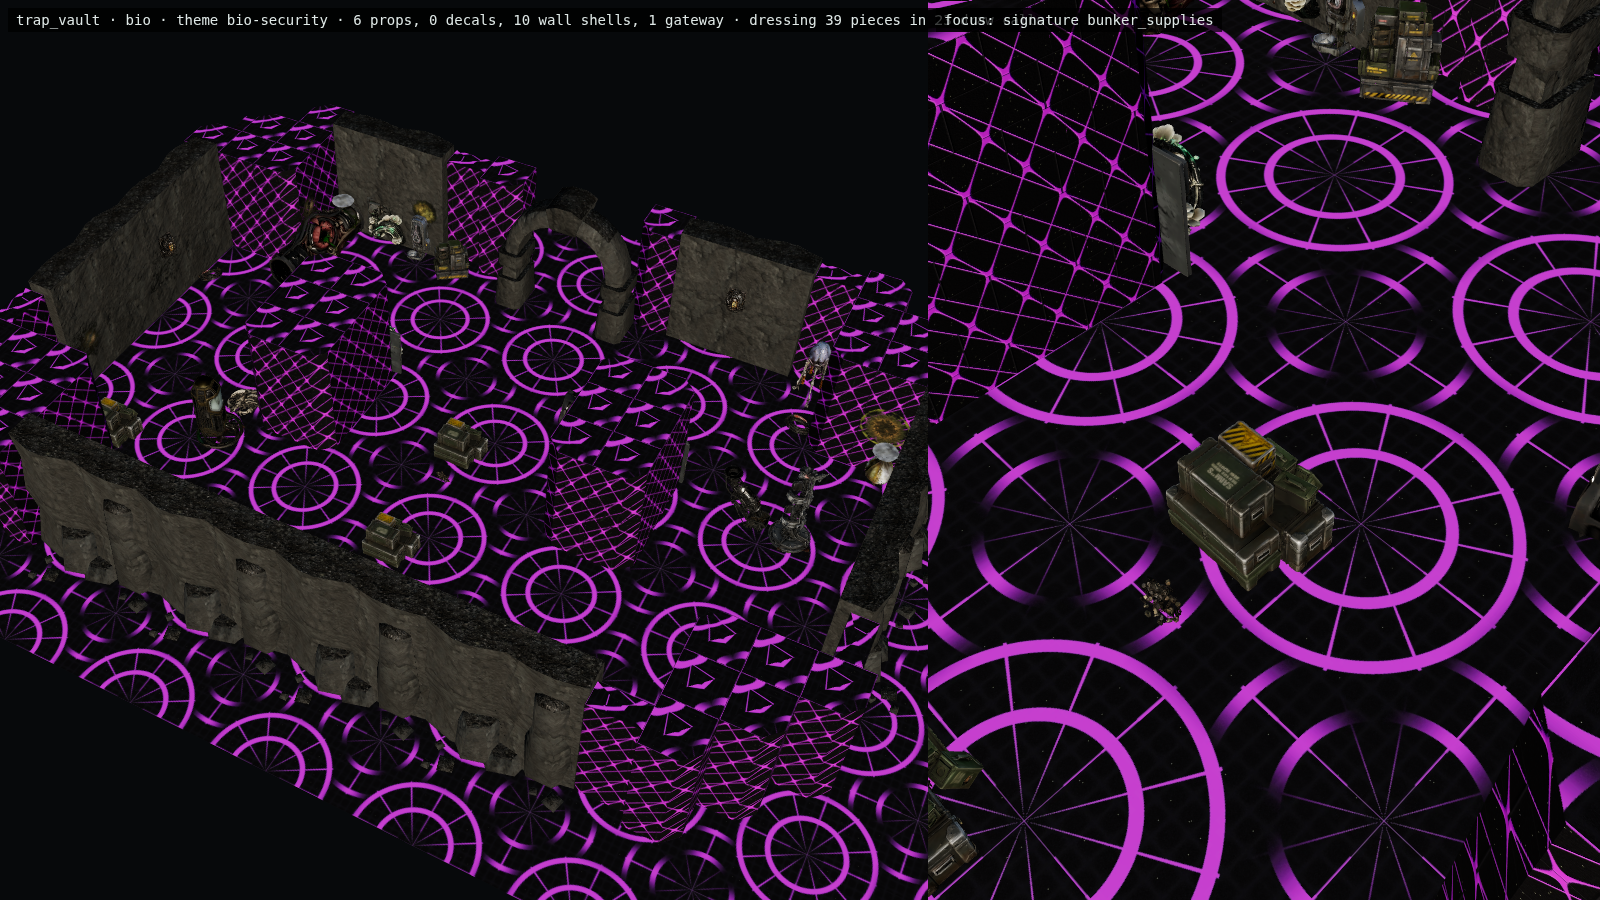
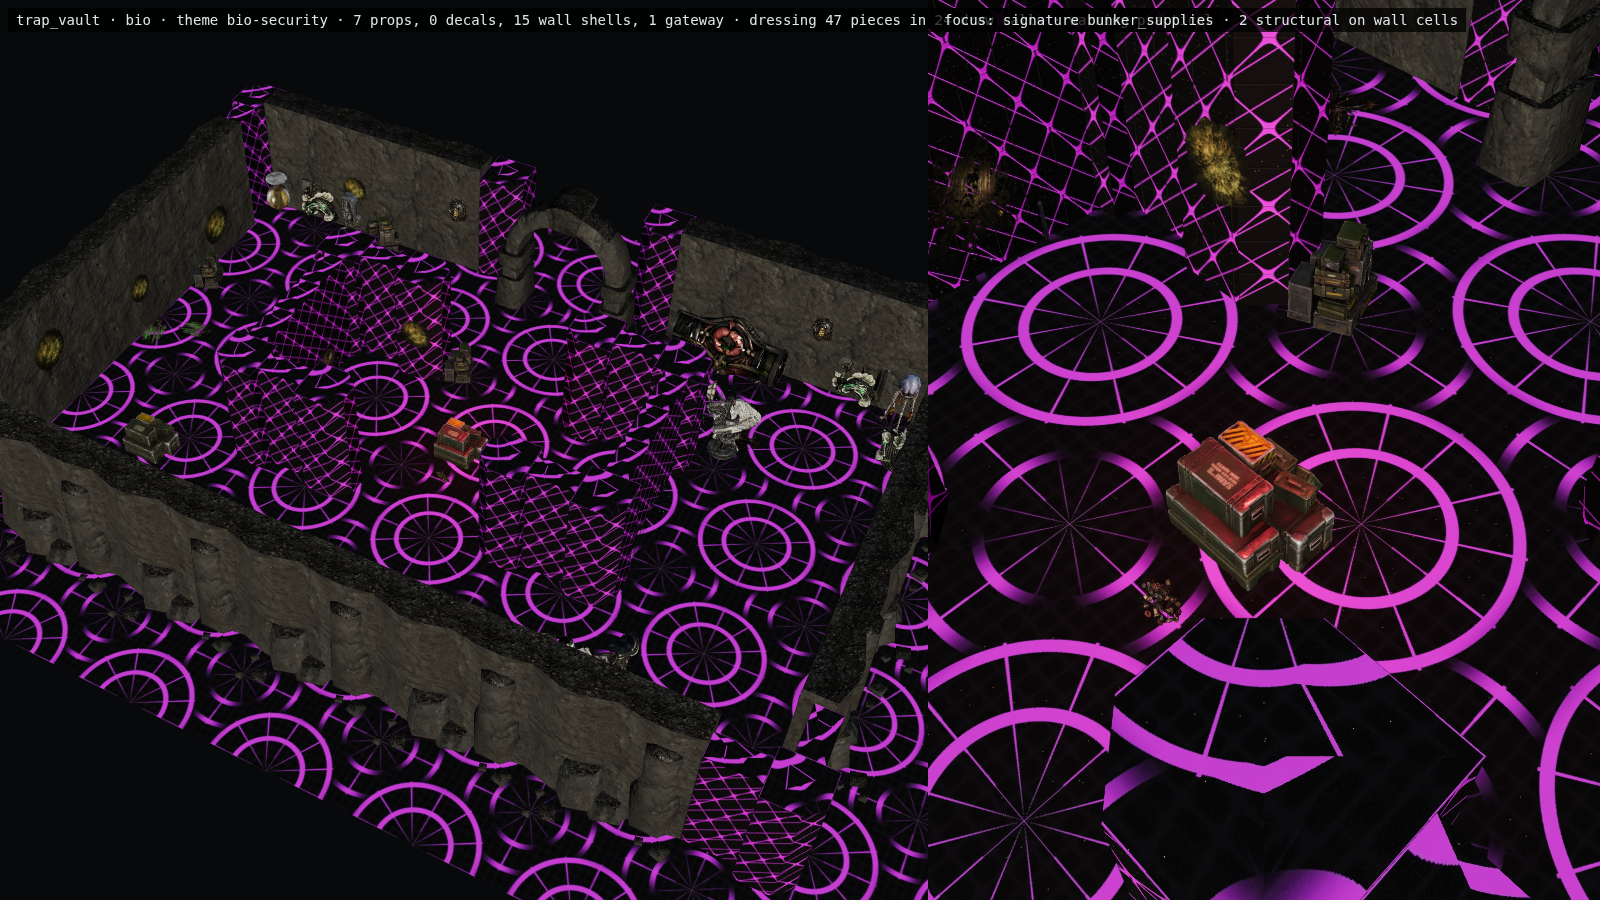
feat(levels): make trap vault a telegraphed lure court

diff --git a/src/data/roomBuilds.js b/src/data/roomBuilds.js
@@ -328,37 +328,56 @@ export const ROOM_BUILD_CATALOG = Object.freeze([
         family: 'trap_reward',
         themeStyle: 'obsidian',
         partitionThickness: 0.5,
-        // The false cache is a floor-standing interactive prop framed by
-        // twin obsidian dais pylons and corner chamfers.
-        pattern: rectRoomPattern(17, 11, [
-            { x: 0, y: 0, w: 2, h: 2 },
-            { x: 15, y: 0, w: 2, h: 2 },
-            { x: 0, y: 9, w: 2, h: 2 },
-            { x: 15, y: 9, w: 2, h: 2 },
-            { x: 4, y: 4, w: 2, h: 3 },
-            { x: 11, y: 4, w: 2, h: 3 }
+        // P2 trap-space proof: mirrored jambs frame an obvious central lure
+        // court while the west edge stays outside encounter/hazard metadata
+        // and conceals the actual payoff. Geometry never changes by state.
+        pattern: authoredRoomPattern([
+            '.................',
+            '.................',
+            '.................',
+            '....###...###....',
+            '....#.......#....',
+            '....#.......#....',
+            '....#.......#....',
+            '....###...###....',
+            '.................',
+            '.................',
+            '.................'
         ]),
         sockets: [{ id: 'entry', side: 'n', width: 3, required: true }],
         rotationPolicy: 'cardinal',
         tierEligibility: [2, 3, 4],
         biomeEligibility: ['active', 'cryo', 'bio'],
         roles: ['challenge', 'reward'],
-        structuralAnchors: [],
+        structuralAnchors: [
+            { id: 'trap_emitter_west', type: 'prop_laser_trap_emitter', x: 4, y: 5 },
+            { id: 'trap_emitter_east', type: 'prop_laser_trap_emitter', x: 12, y: 5 }
+        ],
         interactionAnchors: [{ id: 'false_cache', type: 'prop_bunker_supplies', x: 8, y: 5 }],
         signatureAnchorId: 'false_cache',
         compassAnchors: { approach: 'entry', objective: 'false_cache' },
-        coverZones: [{ x: 4, y: 4, w: 2, h: 3 }, { x: 11, y: 4, w: 2, h: 3 }],
-        encounterZones: [{ id: 'trap_trigger', x: 5, y: 3, w: 7, h: 5 }],
-        rewardAnchors: [{ id: 'trap_payoff', type: 'prop_bunker_supplies', x: 8, y: 8 }],
+        coverZones: [
+            { x: 4, y: 3, w: 3, h: 1 },
+            { x: 4, y: 3, w: 1, h: 5 },
+            { x: 4, y: 7, w: 3, h: 1 },
+            { x: 10, y: 3, w: 3, h: 1 },
+            { x: 12, y: 3, w: 1, h: 5 },
+            { x: 10, y: 7, w: 3, h: 1 }
+        ],
+        encounterZones: [{ id: 'trap_trigger', x: 5, y: 3, w: 12, h: 5 }],
+        rewardAnchors: [{ id: 'trap_payoff', type: 'prop_bunker_supplies', x: 2, y: 8 }],
         loreAnchors: [],
-        hazardZones: [{ id: 'spore_vent', x: 5, y: 3, w: 7, h: 5 }],
-        quietZones: [],
+        hazardZones: [{ id: 'spore_vent', x: 7, y: 3, w: 10, h: 5 }],
+        quietZones: [
+            { x: 5, y: 0, w: 7, h: 3 },
+            { x: 0, y: 3, w: 4, h: 6 }
+        ],
         safeZone: false,
         containmentBounds: { minX: 0, minY: 0, maxX: 16, maxY: 10 },
         presentationVariants: ['warning', 'active', 'spent'],
         stateVariants: ['dormant', 'questActive', 'resolved'],
         adjacency: { prefers: [], forbids: ['camp'] },
-        contentBudget: { structuralLarge: 0, activityZones: 1, pickupsMin: 1, enemiesMax: 2 }
+        contentBudget: { structuralLarge: 2, activityZones: 2, pickupsMin: 1, enemiesMax: 2 }
     }),
     Object.freeze({
         id: 'reward_cache',

diff --git a/src/kitMaterials.js b/src/kitMaterials.js
@@ -58,7 +58,20 @@ const SURFACES = Object.freeze({
     permafrost: { wall: { metalness: 0.15 }, floor: { metalness: 0.10 } },
     cleanroom: { wall: { metalness: 0.40 }, floor: { metalness: 0.35 } },
     mycelium: { wall: { metalness: 0.15 }, floor: { metalness: 0.08 } },
-    obsidian: { wall: { metalness: 0.55 }, floor: { metalness: 0.65 } },
+    obsidian: {
+        wall: {
+            metalness: 0.55,
+            emissiveIntensity: 0.16,
+            color: 0x3a303f,
+            emissiveColor: 0x421850
+        },
+        floor: {
+            metalness: 0.65,
+            emissiveIntensity: 0.04,
+            color: 0x24202a,
+            emissiveColor: 0x421850
+        }
+    },
     toxic_sump: { wall: { metalness: 0.70 }, floor: { metalness: 0.60 } }
 });
 
@@ -104,14 +117,15 @@ export function getKitMaterial(skin, surface, loader = null) {
         roughnessMap: loadTiling(textureLoader, urls.rough),
         roughness: 1,
         metalness: SURFACES[skin]?.[surface]?.metalness ?? 0,
+        color: SURFACES[skin]?.[surface]?.color ?? 0xffffff,
         vertexColors: true,
         // Kenney pieces are authored double-sided: a corridor wall is one sheet.
         side: THREE.DoubleSide
     };
     if (urls.emissive) {
         matConfig.emissiveMap = loadTiling(textureLoader, urls.emissive);
-        matConfig.emissive = new THREE.Color(0xffffff);
-        matConfig.emissiveIntensity = 1.0;
+        matConfig.emissive = new THREE.Color(SURFACES[skin]?.[surface]?.emissiveColor ?? 0xffffff);
+        matConfig.emissiveIntensity = SURFACES[skin]?.[surface]?.emissiveIntensity ?? 1.0;
     }
     const material = new THREE.MeshStandardMaterial(matConfig);
     materials.set(key, material);
@@ -145,10 +159,13 @@ export function updateKitMaterials(elapsedSeconds) {
     const obsidianWall = materials.get('obsidian:wall');
     const obsidianFloor = materials.get('obsidian:floor');
     if (obsidianWall?.emissiveMap) {
-        obsidianWall.emissiveIntensity = 1.0 + 0.30 * Math.sin(time * 1.4);
+        obsidianWall.emissiveIntensity = 0.16 + 0.05 * Math.sin(time * 1.4);
     }
     if (obsidianFloor?.emissiveMap) {
-        obsidianFloor.emissiveIntensity = 1.0 + 0.25 * Math.sin(time * 1.4 + 1.5);
+        // Obsidian linework is wayfinding, not room-wide key light. Keeping
+        // it below the wall pulse lets authored warning/reward practicals
+        // establish hierarchy instead of competing with every floor tile.
+        obsidianFloor.emissiveIntensity = 0.04 + 0.015 * Math.sin(time * 1.4 + 1.5);
     }
 }
 

diff --git a/src/anchorPracticalLight.js b/src/anchorPracticalLight.js
@@ -4,7 +4,7 @@
  *
  * The key art lights the functional anchor, not the room: cryogenic cyan on
  * racks and coolant, liturgical amber on lecterns and shrines, bioluminescent
- * green on biomech growth. None of the anchor GLBs ship an emissive map yet
+ * green on biomech growth, warning red on traps. None of the anchor GLBs ship an emissive map yet
  * (audit 2026-10-04), so the light is a single pooled source: it is registered
  * with ThreeGame's environment light pool (ENV_LIGHT_BUDGET), which keeps the
  * number of lit point lights constant and lights only the nearest sources, so
@@ -13,12 +13,14 @@
 export const ANCHOR_LIGHT_PALETTE = Object.freeze({
     cyan: Object.freeze({ color: 0x5fe3ff, intensity: 1.6, distance: 4.5, decay: 2 }),
     amber: Object.freeze({ color: 0xffa648, intensity: 1.7, distance: 4.5, decay: 2 }),
-    green: Object.freeze({ color: 0x7dff6a, intensity: 1.4, distance: 4.0, decay: 2 })
+    green: Object.freeze({ color: 0x7dff6a, intensity: 1.4, distance: 4.0, decay: 2 }),
+    warning: Object.freeze({ color: 0xff4055, intensity: 1.8, distance: 4.0, decay: 2 })
 });
 
 // First match wins; cyan before green so a "biomech oxygen" piece reads cold.
 const PALETTE_RULES = Object.freeze([
     { palette: 'cyan', match: /oxygen|coolant|cryo|o2_|frost|icey|thermal|water_still|medical_bed|tesla_coil|fabricator|cyber_junction/ },
+    { palette: 'warning', match: /false_cache|laser_trap|trap_emitter/ },
     { palette: 'amber', match: /lectern|votive|shrine|reliquary|saint|liturgical|candle|barrel_heater|flood_lamp|pheromone_censer|scent_distiller|warmth_hearth|checkpoint_post|wayfinding_totem|seismic_drill|devotion_tree|meat_smoking_rack|pipe_organ_heat_exchanger|ammo_crate/ },
     { palette: 'green', match: /biomech|spore|fungal|hive|flesh|umbilical|alien|incubator|mycelium/ }
 ]);
@@ -41,6 +43,6 @@ export function anchorLightFor(type) {
  */
 export function roomPracticalLightPlacement(placements = []) {
     const signature = placements.find((placement) => placement?.kind === 'signature');
-    const light = signature ? anchorLightFor(signature.type) : null;
+    const light = signature ? anchorLightFor(`${signature.anchorId ?? ''} ${signature.type ?? ''}`) : null;
     return light ? { placementId: signature.id, light } : null;
 }

diff --git a/src/roomBuilds.test.js b/src/roomBuilds.test.js
@@ -258,6 +258,39 @@ describe('ROOM_BUILD_CATALOG', () => {
         expect(build.rewardAnchors[0]).toMatchObject({ id: 'puzzle_reward', x: 15, y: 3 });
     });
 
+    it('turns the trap vault into a lure court with a safe concealed bypass', () => {
+        const build = ROOM_BUILD_CATALOG.find((entry) => entry.id === 'trap_vault');
+        expect(build.pattern).toEqual([
+            '.................',
+            '.................',
+            '.................',
+            '....###...###....',
+            '....#.......#....',
+            '....#.......#....',
+            '....#.......#....',
+            '....###...###....',
+            '.................',
+            '.................',
+            '.................'
+        ]);
+        const approach = computeApproachPoint(build);
+        const lure = { x: 8, y: 5 };
+        const payoff = { x: 2, y: 8 };
+        const hazard = new Set();
+        for (let y = 3; y < 8; y += 1) for (let x = 7; x < 17; x += 1) hazard.add(`${x},${y}`);
+        expect(approach).toEqual({ x: 8, y: 2 });
+        expect(shortestPatternPath(build.pattern, approach, lure)).toBeLessThan(Infinity);
+        expect(shortestPatternPath(build.pattern, approach, payoff, hazard)).toBeLessThan(Infinity);
+        expect(build.signatureAnchorId).toBe('false_cache');
+        expect(build.structuralAnchors).toEqual(expect.arrayContaining([
+            expect.objectContaining({ id: 'trap_emitter_west', type: 'prop_laser_trap_emitter', x: 4, y: 5 }),
+            expect.objectContaining({ id: 'trap_emitter_east', type: 'prop_laser_trap_emitter', x: 12, y: 5 })
+        ]));
+        expect(build.structuralAnchors.every((anchor) => build.pattern[anchor.y][anchor.x] === '#')).toBe(true);
+        expect(build.rewardAnchors[0]).toMatchObject({ id: 'trap_payoff', x: 2, y: 8 });
+        expect(build.quietZones[1]).toMatchObject({ x: 0, y: 3, w: 4, h: 6 });
+    });
+
     it.each(ROOM_BUILD_CATALOG.map((build) => [build.id, build]))('%s is internally valid', (_, build) => {
         expect(validateRoomBuild(build)).toEqual([]);
     });

diff --git a/tests/e2e/fixtures/furnished-room-showroom.html b/tests/e2e/fixtures/furnished-room-showroom.html
@@ -43,6 +43,7 @@
     import { buildGrammarRoomChunk } from '/src/roomGrammarChunk.js';
     import { planRoomCutawayCells, ROOM_CUTAWAY_HEIGHT } from '/src/roomPresentation.js';
     import { createCornerCutWallGeometry, createSlimWallGeometry, detectWallPartitionProfile, wallCornerCutMask, cornerCutPositions } from '/src/wallAutotile.js';
+    import { ROOM_THEME_SURFACE, SURFACE_LAYER_FIRST, surfaceForLayer, surfaceLayer } from '/src/floorSplat.js';
 
     const params = new URLSearchParams(location.search);
     const catalog = ALL_ROOM_BUILDS ?? ROOM_BUILD_CATALOG;
@@ -135,7 +136,18 @@
       gate: 'cathedral'
     };
     const resolvedThemeStyle = themeStyle ?? FAMILY_DEFAULT_STYLES[build?.family] ?? (biome === 'cryo' ? 'cryo_deck' : biome === 'bio' ? 'biomech' : 'bunker');
-    const TERRAIN = PBR_SUITES[resolvedThemeStyle] ?? PBR_SUITES.bunker;
+    const TERRAIN = { ...(PBR_SUITES[resolvedThemeStyle] ?? PBR_SUITES.bunker) };
+    // The live renderer gives selected room themes a lived-in pass-2 surface
+    // before it falls back to the older suite atlas. Mirror that precedence in
+    // review captures; otherwise a bunker-security room such as trap_vault is
+    // incorrectly shown with the build's neon obsidian kit floor.
+    const themeSurfaceId = ROOM_THEME_SURFACE[room.theme ?? room.themeConfig?.id];
+    if (themeSurfaceId) {
+      const layer = surfaceLayer(themeSurfaceId, room.id ?? build?.id ?? 'showroom');
+      const surface = surfaceForLayer(layer);
+      const variant = 'abcdefgh'[layer - SURFACE_LAYER_FIRST - surface.first];
+      TERRAIN.floor = `/art/source/textures/lived-in-pass-2/pbr/${themeSurfaceId}_${variant}_albedo.png`;
+    }
     const textureLoader = new THREE.TextureLoader();
     const tiled = (path, repeatX = 1, repeatY = 1) => {
       const texture = textureLoader.load(path);

diff --git a/src/anchorPracticalLight.test.js b/src/anchorPracticalLight.test.js
@@ -14,6 +14,8 @@ describe('anchor practical light (lived-in world M4)', () => {
         expect(anchorPaletteFor('prop_tesla_coil_node')).toBe('cyan');
         expect(anchorPaletteFor('prop_fabricator_workstation')).toBe('cyan');
         expect(anchorPaletteFor('prop_cyber_junction')).toBe('cyan');
+        expect(anchorPaletteFor('false_cache prop_bunker_supplies')).toBe('warning');
+        expect(anchorPaletteFor('prop_laser_trap_emitter')).toBe('warning');
         expect(anchorPaletteFor('prop_pipe_organ_heat_exchanger')).toBe('amber');
         expect(anchorPaletteFor('prop_ammo_crate_stack')).toBe('amber');
         expect(anchorPaletteFor('life_barrel_heater')).toBe('amber');
@@ -33,6 +35,12 @@ describe('anchor practical light (lived-in world M4)', () => {
             light: { palette: 'cyan', ...ANCHOR_LIGHT_PALETTE.cyan }
         });
         expect(roomPracticalLightPlacement([{ id: 'x', kind: 'signature', type: 'prop_bunker_supplies' }, ...plan.slice(1)])).toBeNull();
+        expect(roomPracticalLightPlacement([
+            { id: 'trap:signature:0', anchorId: 'false_cache', kind: 'signature', type: 'prop_bunker_supplies' }
+        ])).toEqual({
+            placementId: 'trap:signature:0',
+            light: { palette: 'warning', ...ANCHOR_LIGHT_PALETTE.warning }
+        });
         expect(roomPracticalLightPlacement(plan.slice(1))).toBeNull();
         expect(roomPracticalLightPlacement()).toBeNull();
     });

diff --git a/src/kitMaterials.test.js b/src/kitMaterials.test.js
@@ -77,6 +77,21 @@ describe('kit surface materials', () => {
         expect(biomechWall.emissiveIntensity).not.toBe(baseIntensity);
     });
 
+    it('keeps obsidian floor linework subordinate to walls and authored practicals', () => {
+        const wall = getKitMaterial('obsidian', 'wall', loader);
+        const floor = getKitMaterial('obsidian', 'floor', loader);
+        expect(wall.emissiveIntensity).toBe(0.16);
+        expect(wall.color.getHex()).toBe(0x3a303f);
+        expect(wall.emissive.getHex()).toBe(0x421850);
+        expect(floor.emissiveIntensity).toBe(0.04);
+        expect(floor.color.getHex()).toBe(0x24202a);
+        expect(floor.emissive.getHex()).toBe(0x421850);
+        updateKitMaterials(1.0);
+        expect(floor.emissiveIntensity).toBeGreaterThanOrEqual(0.025);
+        expect(floor.emissiveIntensity).toBeLessThanOrEqual(0.055);
+        expect(floor.emissiveIntensity).toBeLessThan(wall.emissiveIntensity);
+    });
+
     it('swaps the exported kit_wall / kit_floor materials for the shared ones', () => {
         const root = new THREE.Group();
         const wall = new THREE.Mesh(new THREE.BoxGeometry(), new THREE.MeshStandardMaterial({ name: 'kit_wall' }));

diff --git a/tests/e2e/probes/p2-trap-vault-gameplay-camera.spec.js b/tests/e2e/probes/p2-trap-vault-gameplay-camera.spec.js
@@ -1,0 +1,19 @@
+import { test, expect } from '@playwright/test';
+
+// P2 trap-space proof: the observation shelf, central warning lure, paired
+// emitters and concealed western payoff must survive every camera rotation.
+for (let rotation = 0; rotation < 4; rotation += 1) {
+    test(`P2 trap vault game camera — R${rotation}`, async ({ page }) => {
+        await page.setViewportSize({ width: 1600, height: 900 });
+        await page.goto(`/tests/e2e/fixtures/furnished-room-showroom.html?build=trap_vault&biome=active&review=gameplay&rotation=${rotation}`);
+        await page.waitForFunction(() => window.__showroom?.ready === true, null, { timeout: 90_000 });
+        const result = await page.evaluate(() => window.__showroom);
+        expect(result.reviewMode).toBe(true);
+        expect(result.rotation).toBe(rotation);
+        expect(result.cutawayCells).toBeGreaterThan(0);
+        expect(result.props + result.decals).toBeGreaterThan(0);
+        await page.screenshot({
+            path: `docs/reports/assets/furnished-rooms/p2-trap_vault-game-camera-r${rotation}.png`
+        });
+    });
+}

diff --git a/docs/planning/n64-architectural-level-design-overhaul-2026-10-10.md b/docs/planning/n64-architectural-level-design-overhaul-2026-10-10.md
@@ -718,9 +718,32 @@ Capability correction: four positioned relays do not constitute a sequence contr
 independent generic interactions today, and `puzzle_reward` remains immediately searchable. A
 future A → C/D → B state machine must own validation, reset, cable-light propagation, final calm
 state, and reward availability. All relay, spark, and cable animation remains non-colliding and the
-two routes stay permanently open. Next P2 candidate: `trap_vault`.
+two routes stay permanently open.
 
-### 9.6.3 Authored-geometry persistence gate
+### 9.6.3 Lane A P2: telegraphed lure court
+
+`trap_vault` is the second P2 spatial proof. Mirrored three-sided jambs make an hourglass threshold
+around a red-lit false cache, while two authored `prop_laser_trap_emitter` GLBs face the central
+court. The north entry remains a quiet observation shelf; the direct route makes the lure obvious;
+and the actual `trap_payoff` sits in a western bypass outside both encounter and hazard metadata.
+Tests treat the complete intended hazard rectangle as blocked and still prove the payoff reachable,
+in addition to pinning exact geometry, emitter mounts, lure access, and the quiet bypass. Four
+gameplay-camera/cutaway captures live at
+`docs/reports/assets/furnished-rooms/p2-trap_vault-game-camera-r*.png`.
+
+The showroom had been displaying `build.themeStyle` as the entire floor, which made this
+`bunker-security` room look like a neon-magenta obsidian grid even though the live floor-splat path
+selects stained concrete for that theme. Review captures now follow the live lived-in surface
+precedence; obsidian modular trim is reduced to subordinate dark-violet linework.
+
+Capability correction: this is spatial and presentation scaffolding, not a functioning trap FSM.
+The false cache is still a normal supplies interaction, `trap_trigger` affects enemy placement only,
+the spore-vent hazard has no room-level damage consumer, and the payoff is available immediately.
+A future local controller must own arming, beam timing, warning lights/audio, disarm/reset, and
+reward locking. Animation and VFX remain bounded and non-colliding; neither route may close. Next
+P2 candidate: `reward_cache`.
+
+### 9.6.4 Authored-geometry persistence gate
 
 The existing `ROOM_BUILD_VERSION` is only exported; it is not serialized or compared. Neither
 campaign `interiorVersion`, macro `layoutVersion`, nor `WORLD_PLAN_VERSION` pins room-pattern data.
@@ -1081,6 +1104,11 @@ chunk mounts.
   relay enclosure. Four authored nodes now teach, branch, and rejoin spatially under a cyan focal;
   equal-route and four-camera proofs pass. Ordered relay state and reward locking remain explicit
   future controller work.
+- 2026-10-11: Lane A rebuilt the trap vault as an hourglass lure court with a quiet observation
+  shelf, red false cache, paired laser-emitter GLBs, and a hazard-safe western bypass to the true
+  payoff. Exact route and four-camera proofs pass. The showroom now previews the same stained-
+  concrete surface family selected by the live security theme; trap firing, damage, and reward
+  locking remain future controller work.
 - 2026-10-10: Round 2 done (`1b0fce7c`): chasm landmarks plus tactical-map glyphs. Criteria 1,
   3, 4 and 5 met; criterion 2 not met as written, with the reason and the map-based answer in
   §9.10.

diff --git a/docs/planning/world-design-doctrine-n64-lessons-2026-10-10.md b/docs/planning/world-design-doctrine-n64-lessons-2026-10-10.md
@@ -36,9 +36,10 @@ waiting for decoration.
 
 ### Geometry begins as a rectangle
 
-All 12 original authored builds use `rectRoomPattern(width, height, obstructions)`. It fills a
-complete rectangle and can only add rectangular wall islands. Three rooms—`power_puzzle`,
-`trap_vault`, and `reward_cache`—have no internal obstruction at all. The cathedral builds remain
+At the start of this audit, all 12 original authored builds used
+`rectRoomPattern(width, height, obstructions)`. It fills a complete rectangle and can only add
+rectangular wall islands. `power_puzzle` and `trap_vault` have since become P2 authored-pattern
+proofs; `reward_cache` remains the unobstructed original. The cathedral builds remain
 rectilinear cell fields assembled from rectangular stamps; some chamfer corners or add divider
 walls, but they do not encode height and most retain box-dominant massing.
 
@@ -569,7 +570,28 @@ This is not yet an ordered puzzle. All four relays are currently independent gen
 and the supply cache remains searchable without solving them. A future controller must own
 A → C/D → B activation, incorrect-input reset, cable-light propagation, resolved calm state, and
 reward availability. Relay/contact animation and arcs stay local and non-colliding; no power state
-changes walls or traversal. The next P2 candidate is `trap_vault`.
+changes walls or traversal.
+
+`trap_vault` is the second P2 spatial proof. Two mirrored three-sided jambs form an hourglass lure
+court: the north threshold gives the player a quiet observation beat, a red-lit false cache draws a
+fast line through the center, and paired `prop_laser_trap_emitter` GLBs establish a readable threat
+axis. The real `trap_payoff` moved into a quiet western bypass that remains reachable when every
+intended hazard cell is treated as blocked. Exact-pattern tests pin both emitters, the direct lure
+route, the hazard-safe reward route, and the western quiet zone. Four gameplay-camera/cutaway
+captures live at
+`docs/reports/assets/furnished-rooms/p2-trap_vault-game-camera-r*.png`.
+
+The review fixture now mirrors the live theme's lived-in floor-surface precedence, so this active
+`bunker-security` capture uses stained concrete rather than falsely presenting the raw neon
+obsidian kit texture as the room floor. Obsidian modular linework is also held below authored red
+warning and reward practicals.
+
+Capability correction: the room telegraphs a trap but does not yet execute one. `false_cache` is a
+generic searchable supplies interaction; `trap_trigger` only constrains encounter placement;
+`spore_vent` is metadata with no room-hazard damage consumer; and `trap_payoff` is not locked. A
+future local controller must arm the emitters, fire and time their beams, change lights/audio,
+disable or reset safely, and gate the payoff. Those states may animate meshes and VFX but must not
+change walls or close either route. The next P2 candidate is `reward_cache`.
 
 ## Greybox process
 
